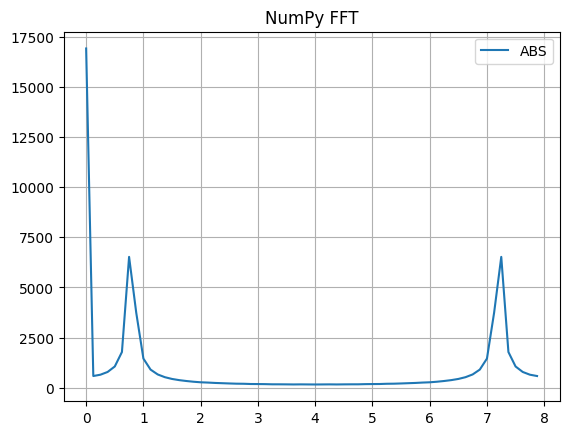
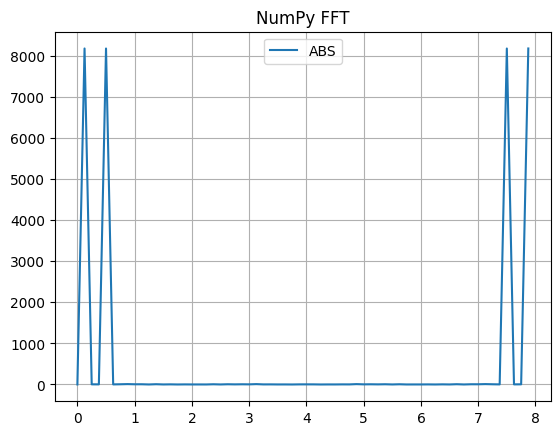
python update

Changed region(s): [[0.0, 0.0, 1.0, 0.9862], [0.9411, 0.9563, 0.9714, 0.9862]]

diff --git a/python encapsulation/encapsulation.py b/python encapsulation/encapsulation.py
@@ -1,14 +1,17 @@
+from bin2decimal import bin2decimal
+import math
 import numpy as np
 import matplotlib.pyplot as plt
 
 #############################
 ## generate a signal input ##
 #############################
-FREQ = 5
+#take off the off set
+FREQ = 2*math.pi*0.125
 AMP  = 512
 TIME = np.arange(0, 8, .125)       #64 points
-wave = AMP/2*np.sin(FREQ * TIME)   #max amplitude: 512 
-wave = wave + AMP/2                #add offset 
+wave = AMP/2*np.cos(FREQ * TIME)   #max amplitude: 512 
+#wave = wave + AMP/2                #add offset 
 
 di_re = wave.astype(int)
 di_im = np.zeros(64).astype(int)
@@ -37,7 +40,6 @@ file_wr.close()
 file_wr_clone.close()
 
 
-
 ###########################################
 ## process the data in verilog testbench ##
 ###########################################
@@ -59,17 +61,17 @@ fft_np = np.fft.fft(comp)
 ## load the result ##
 #####################
 #for testing
-file_rd = open('python encapsulation/output_clone.txt', 'r')
-#file_rd = open('R22SDF/simulation/modelsim/output.txt', 'r')
+#file_rd = open('python encapsulation/output_clone.txt', 'r')
+file_rd = open('R22SDF/simulation/modelsim/output.txt', 'r')
 data_read = file_rd.read()
 file_rd.close()
-data_read = data_read.split("\n")
+data_read = data_read.split('\n')
 data_read.pop() #delete the last element: '\n'
-data_real = np.array(data_read[0::2])
-data_imag = np.array(data_read[1::2])
+data_real = np.array([bin2decimal(i) for i in data_read[0::2]])
+data_imag = np.array([bin2decimal(i) for i in data_read[1::2]])
 
-do_re = data_real.astype(int)
-do_im = data_imag.astype(int)
+do_re = data_real
+do_im = data_imag
 
 fft_fpga = do_re + do_im*1j
 
@@ -89,6 +91,8 @@ plt.savefig('python encapsulation/input.png', bbox_inches='tight')
 plt.figure(2)
 plt.title('NumPy FFT')
 plt.plot(TIME, np.abs(fft_np), label='ABS')
+#plt.plot(TIME, fft_np.real,   label='Real')
+#plt.plot(TIME, fft_np.imag,   label='Imag')
 plt.legend()
 plt.grid()
 plt.savefig('python encapsulation/fft_np.png', bbox_inches='tight')
@@ -96,6 +100,8 @@ plt.savefig('python encapsulation/fft_np.png', bbox_inches='tight')
 plt.figure(3)
 plt.title('FPGA FFT')
 plt.plot(TIME, np.abs(fft_fpga), label='ABS')
+#plt.plot(TIME, fft_fpga.real,   label='Real')
+#plt.plot(TIME, fft_fpga.imag,   label='Imag')
 plt.legend()
 plt.grid()
 plt.savefig('python encapsulation/fft_fpga.png', bbox_inches='tight')

diff --git a/python encapsulation/bin2decimal.py b/python encapsulation/bin2decimal.py
@@ -1,0 +1,14 @@
+def bin2decimal(input_bin):
+    result = 0
+    if int(input_bin[0]):
+        #negative
+        for i in range(16):
+            if not int(input_bin[i]):
+               result += (32768/(2**i))
+        result = -1*result -1
+    else:
+        #positive
+        for i in range(15):
+            result += int(input_bin[i+1]) * (16384/(2**i))            
+    
+    return int(result)
